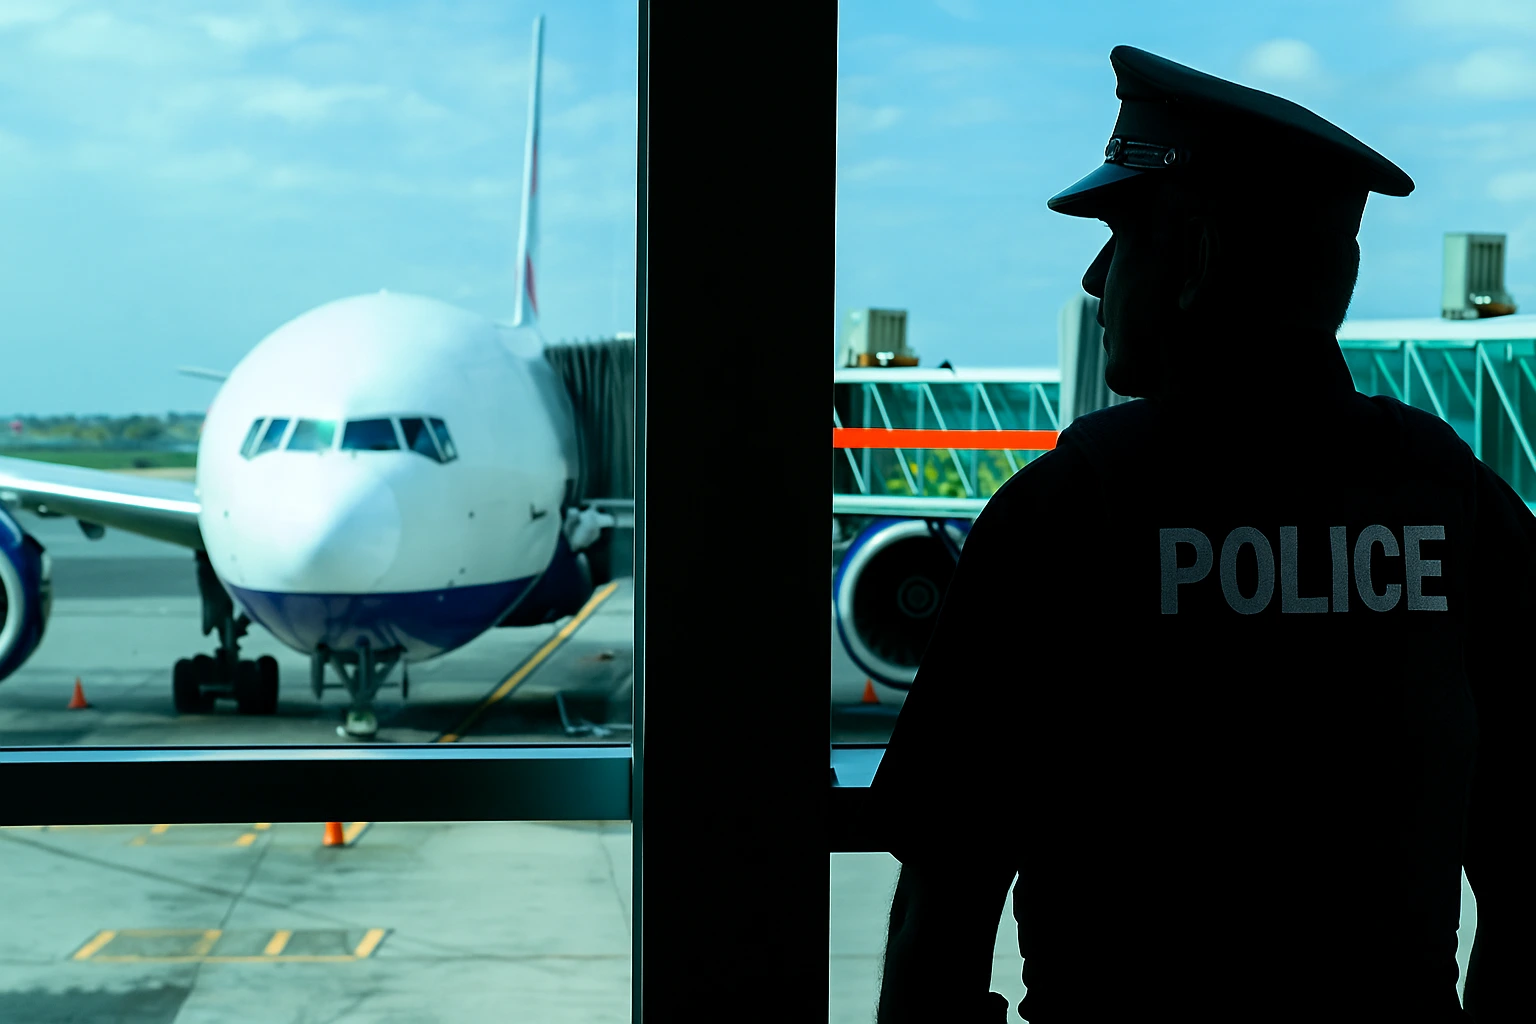
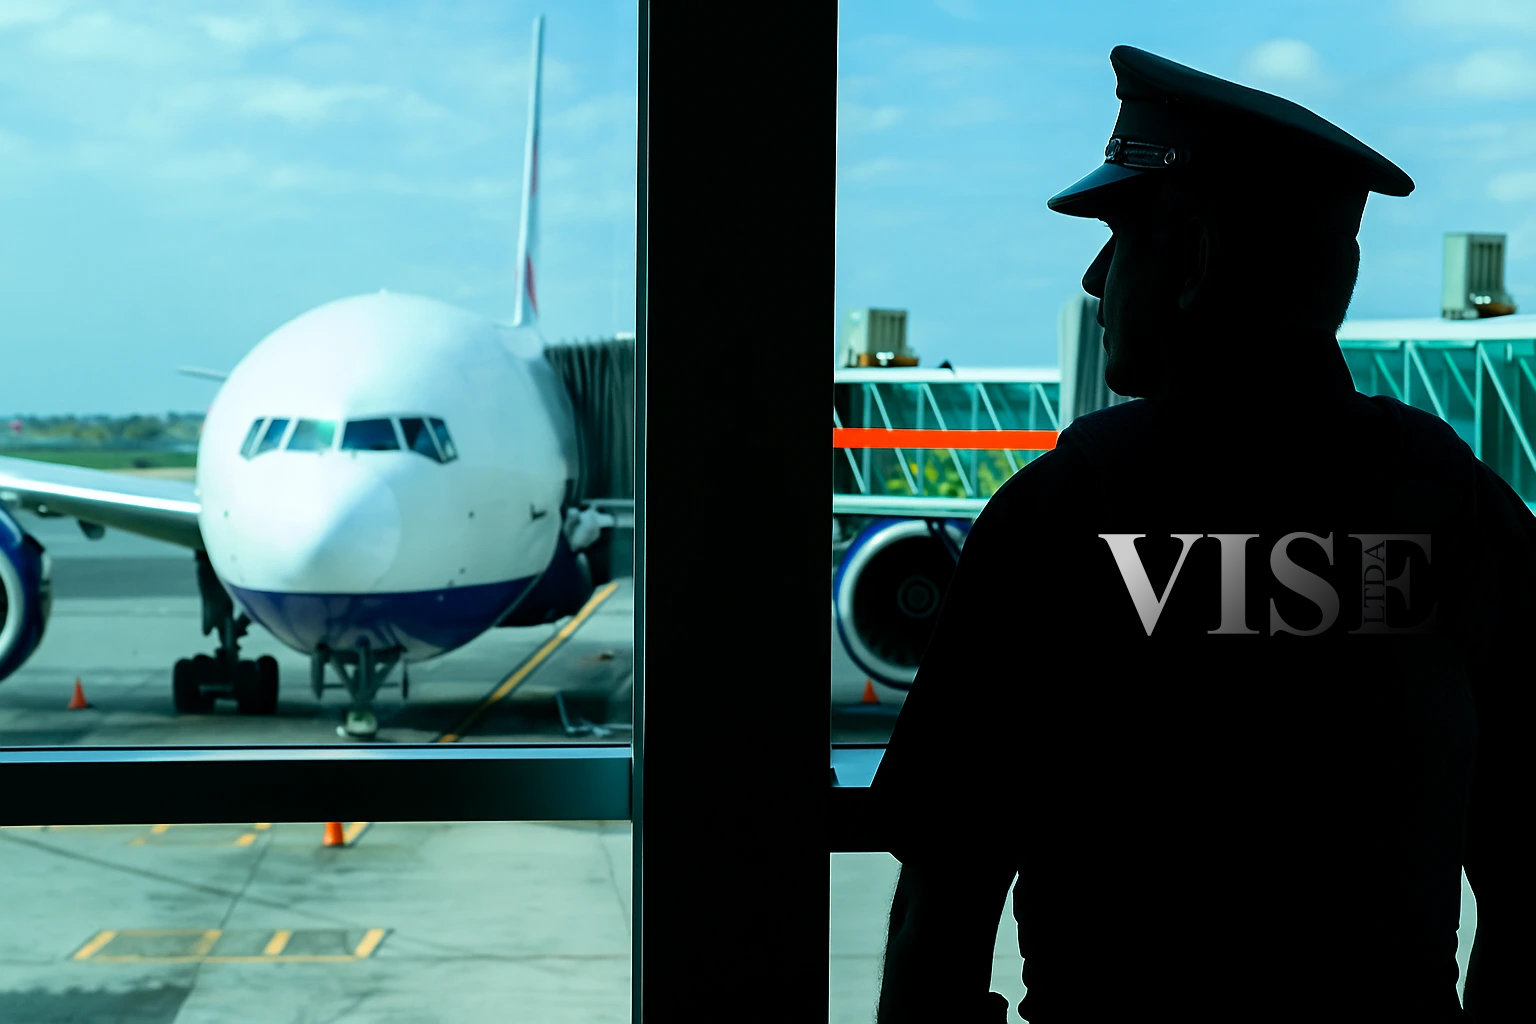
agregar nuevos cambios para vise

Changed region(s): [[0.7188, 0.5, 0.9375, 0.625]]

diff --git a/contacto.html b/contacto.html
@@ -109,7 +109,7 @@
         <div class="container_contacto_matriz">
             <div class="contacto__matriz-content">
                 <div class="contacto__matriz-text">
-                    <h4 class="contacto__matriz-title">Visita nuestras oficinas</h2>
+                    <h4 class="contacto__matriz-title">Nuestras Oficinas</h2>
                     <p class="contacto__matriz-description">
                         Te esperamos en nuestras oficinas Quito y Guayaquil
                     </p>
@@ -212,11 +212,10 @@
                                 </div>
                             </div>
                         <div class="footer__contact-right">
-                            <h3 class="footer__contact-title">ATENCIÓN AL CLIENTE</h3>
+                            <h3 style="text-transform: none;" class="footer__contact-title">Contáctanos</h3>
                             <div class="footer__contact-info">
-                                <p>(+593) 963150101</p>
-                                <p>(+593) 999206671</p>
-
+                                <p>Atención al cliente: (+593) 963150101</p>
+                                <p>RRHH: (+593) 999206671</p>
                             </div>
                         </div>
                     </div>
@@ -231,7 +230,7 @@
                                 </div>
                             </div>
                         <div class="footer__contact-right">
-                            <h3 class="footer__contact-title">DÓNDE NOS ENCONTRAMOS</h3>
+                            <h3 style="text-transform: none;" class="footer__contact-title">Nuestras Oficinas</h3>
                             <div class="footer__contact-info">
                                 <p>Quito: Inglaterra E3-266, Avenida Amazonas, Edificio Stratta.</p>
                                 <p>Guayaquil: Ciudadela Bellavista, Mz41 Villa 40.</p>
@@ -240,7 +239,6 @@
                     </div>
                 </div>
             </div>
-
             <!-- Segunda Fila: Vacía por el momento -->
             <div class="footer__empty-row">
                 <div class="container">

diff --git a/nosotros.html b/nosotros.html
@@ -254,11 +254,10 @@ Gracias a esta experiencia y a nuestro enfoque en la mejora continua, nos hemos 
                                 </div>
                             </div>
                         <div class="footer__contact-right">
-                            <h3 class="footer__contact-title">ATENCIÓN AL CLIENTE</h3>
+                            <h3 style="text-transform: none;" class="footer__contact-title">Contáctanos</h3>
                             <div class="footer__contact-info">
-                                <p>(+593) 963150101</p>
-                                <p>(+593) 999206671</p>
-
+                                <p>Atención al cliente: (+593) 963150101</p>
+                                <p>RRHH: (+593) 999206671</p>
                             </div>
                         </div>
                     </div>
@@ -273,7 +272,7 @@ Gracias a esta experiencia y a nuestro enfoque en la mejora continua, nos hemos 
                                 </div>
                             </div>
                         <div class="footer__contact-right">
-                            <h3 class="footer__contact-title">DÓNDE NOS ENCONTRAMOS</h3>
+                            <h3 style="text-transform: none;" class="footer__contact-title">Nuestras Oficinas</h3>
                             <div class="footer__contact-info">
                                 <p>Quito: Inglaterra E3-266, Avenida Amazonas, Edificio Stratta.</p>
                                 <p>Guayaquil: Ciudadela Bellavista, Mz41 Villa 40.</p>
@@ -282,7 +281,6 @@ Gracias a esta experiencia y a nuestro enfoque en la mejora continua, nos hemos 
                     </div>
                 </div>
             </div>
-
             <!-- Segunda Fila: Vacía por el momento -->
             <div class="footer__empty-row">
                 <div class="container">

diff --git a/tendencias.html b/tendencias.html
@@ -148,11 +148,10 @@ cuenta con amplia experiencia y se mantiene en constante capacitación para ofre
                                 </div>
                             </div>
                         <div class="footer__contact-right">
-                            <h3 class="footer__contact-title">ATENCIÓN AL CLIENTE</h3>
+                            <h3 style="text-transform: none;" class="footer__contact-title">Contáctanos</h3>
                             <div class="footer__contact-info">
-                                <p>(+593) 963150101</p>
-                                <p>(+593) 999206671</p>
-
+                                <p>Atención al cliente: (+593) 963150101</p>
+                                <p>RRHH: (+593) 999206671</p>
                             </div>
                         </div>
                     </div>
@@ -167,7 +166,7 @@ cuenta con amplia experiencia y se mantiene en constante capacitación para ofre
                                 </div>
                             </div>
                         <div class="footer__contact-right">
-                            <h3 class="footer__contact-title">DÓNDE NOS ENCONTRAMOS</h3>
+                            <h3 style="text-transform: none;" class="footer__contact-title">Nuestras Oficinas</h3>
                             <div class="footer__contact-info">
                                 <p>Quito: Inglaterra E3-266, Avenida Amazonas, Edificio Stratta.</p>
                                 <p>Guayaquil: Ciudadela Bellavista, Mz41 Villa 40.</p>

diff --git a/index.html b/index.html
@@ -169,11 +169,10 @@
                                 </div>
                             </div>
                         <div class="footer__contact-right">
-                            <h3 class="footer__contact-title">ATENCIÓN AL CLIENTE</h3>
+                            <h3 style="text-transform: none;" class="footer__contact-title">Contáctanos</h3>
                             <div class="footer__contact-info">
-                                <p>(+593) 963150101</p>
-                                <p>(+593) 999206671</p>
-
+                                <p>Atención al cliente: (+593) 963150101</p>
+                                <p>RRHH: (+593) 999206671</p>
                             </div>
                         </div>
                     </div>
@@ -188,7 +187,7 @@
                                 </div>
                             </div>
                         <div class="footer__contact-right">
-                            <h3 class="footer__contact-title">DÓNDE NOS ENCONTRAMOS</h3>
+                            <h3 style="text-transform: none;" class="footer__contact-title">Nuestras Oficinas</h3>
                             <div class="footer__contact-info">
                                 <p>Quito: Inglaterra E3-266, Avenida Amazonas, Edificio Stratta.</p>
                                 <p>Guayaquil: Ciudadela Bellavista, Mz41 Villa 40.</p>

diff --git a/sectores.html b/sectores.html
@@ -209,11 +209,10 @@
                                 </div>
                             </div>
                         <div class="footer__contact-right">
-                            <h3 class="footer__contact-title">ATENCIÓN AL CLIENTE</h3>
+                            <h3 style="text-transform: none;" class="footer__contact-title">Contáctanos</h3>
                             <div class="footer__contact-info">
-                                <p>(+593) 963150101</p>
-                                <p>(+593) 999206671</p>
-
+                                <p>Atención al cliente: (+593) 963150101</p>
+                                <p>RRHH: (+593) 999206671</p>
                             </div>
                         </div>
                     </div>
@@ -228,7 +227,7 @@
                                 </div>
                             </div>
                         <div class="footer__contact-right">
-                            <h3 class="footer__contact-title">DÓNDE NOS ENCONTRAMOS</h3>
+                            <h3 style="text-transform: none;" class="footer__contact-title">Nuestras Oficinas</h3>
                             <div class="footer__contact-info">
                                 <p>Quito: Inglaterra E3-266, Avenida Amazonas, Edificio Stratta.</p>
                                 <p>Guayaquil: Ciudadela Bellavista, Mz41 Villa 40.</p>

diff --git a/soluciones.html b/soluciones.html
@@ -150,11 +150,10 @@
                                 </div>
                             </div>
                         <div class="footer__contact-right">
-                            <h3 class="footer__contact-title">ATENCIÓN AL CLIENTE</h3>
+                            <h3 style="text-transform: none;" class="footer__contact-title">Contáctanos</h3>
                             <div class="footer__contact-info">
-                                <p>(+593) 963150101</p>
-                                <p>(+593) 999206671</p>
-
+                                <p>Atención al cliente: (+593) 963150101</p>
+                                <p>RRHH: (+593) 999206671</p>
                             </div>
                         </div>
                     </div>
@@ -169,7 +168,7 @@
                                 </div>
                             </div>
                         <div class="footer__contact-right">
-                            <h3 class="footer__contact-title">DÓNDE NOS ENCONTRAMOS</h3>
+                            <h3 style="text-transform: none;" class="footer__contact-title">Nuestras Oficinas</h3>
                             <div class="footer__contact-info">
                                 <p>Quito: Inglaterra E3-266, Avenida Amazonas, Edificio Stratta.</p>
                                 <p>Guayaquil: Ciudadela Bellavista, Mz41 Villa 40.</p>
